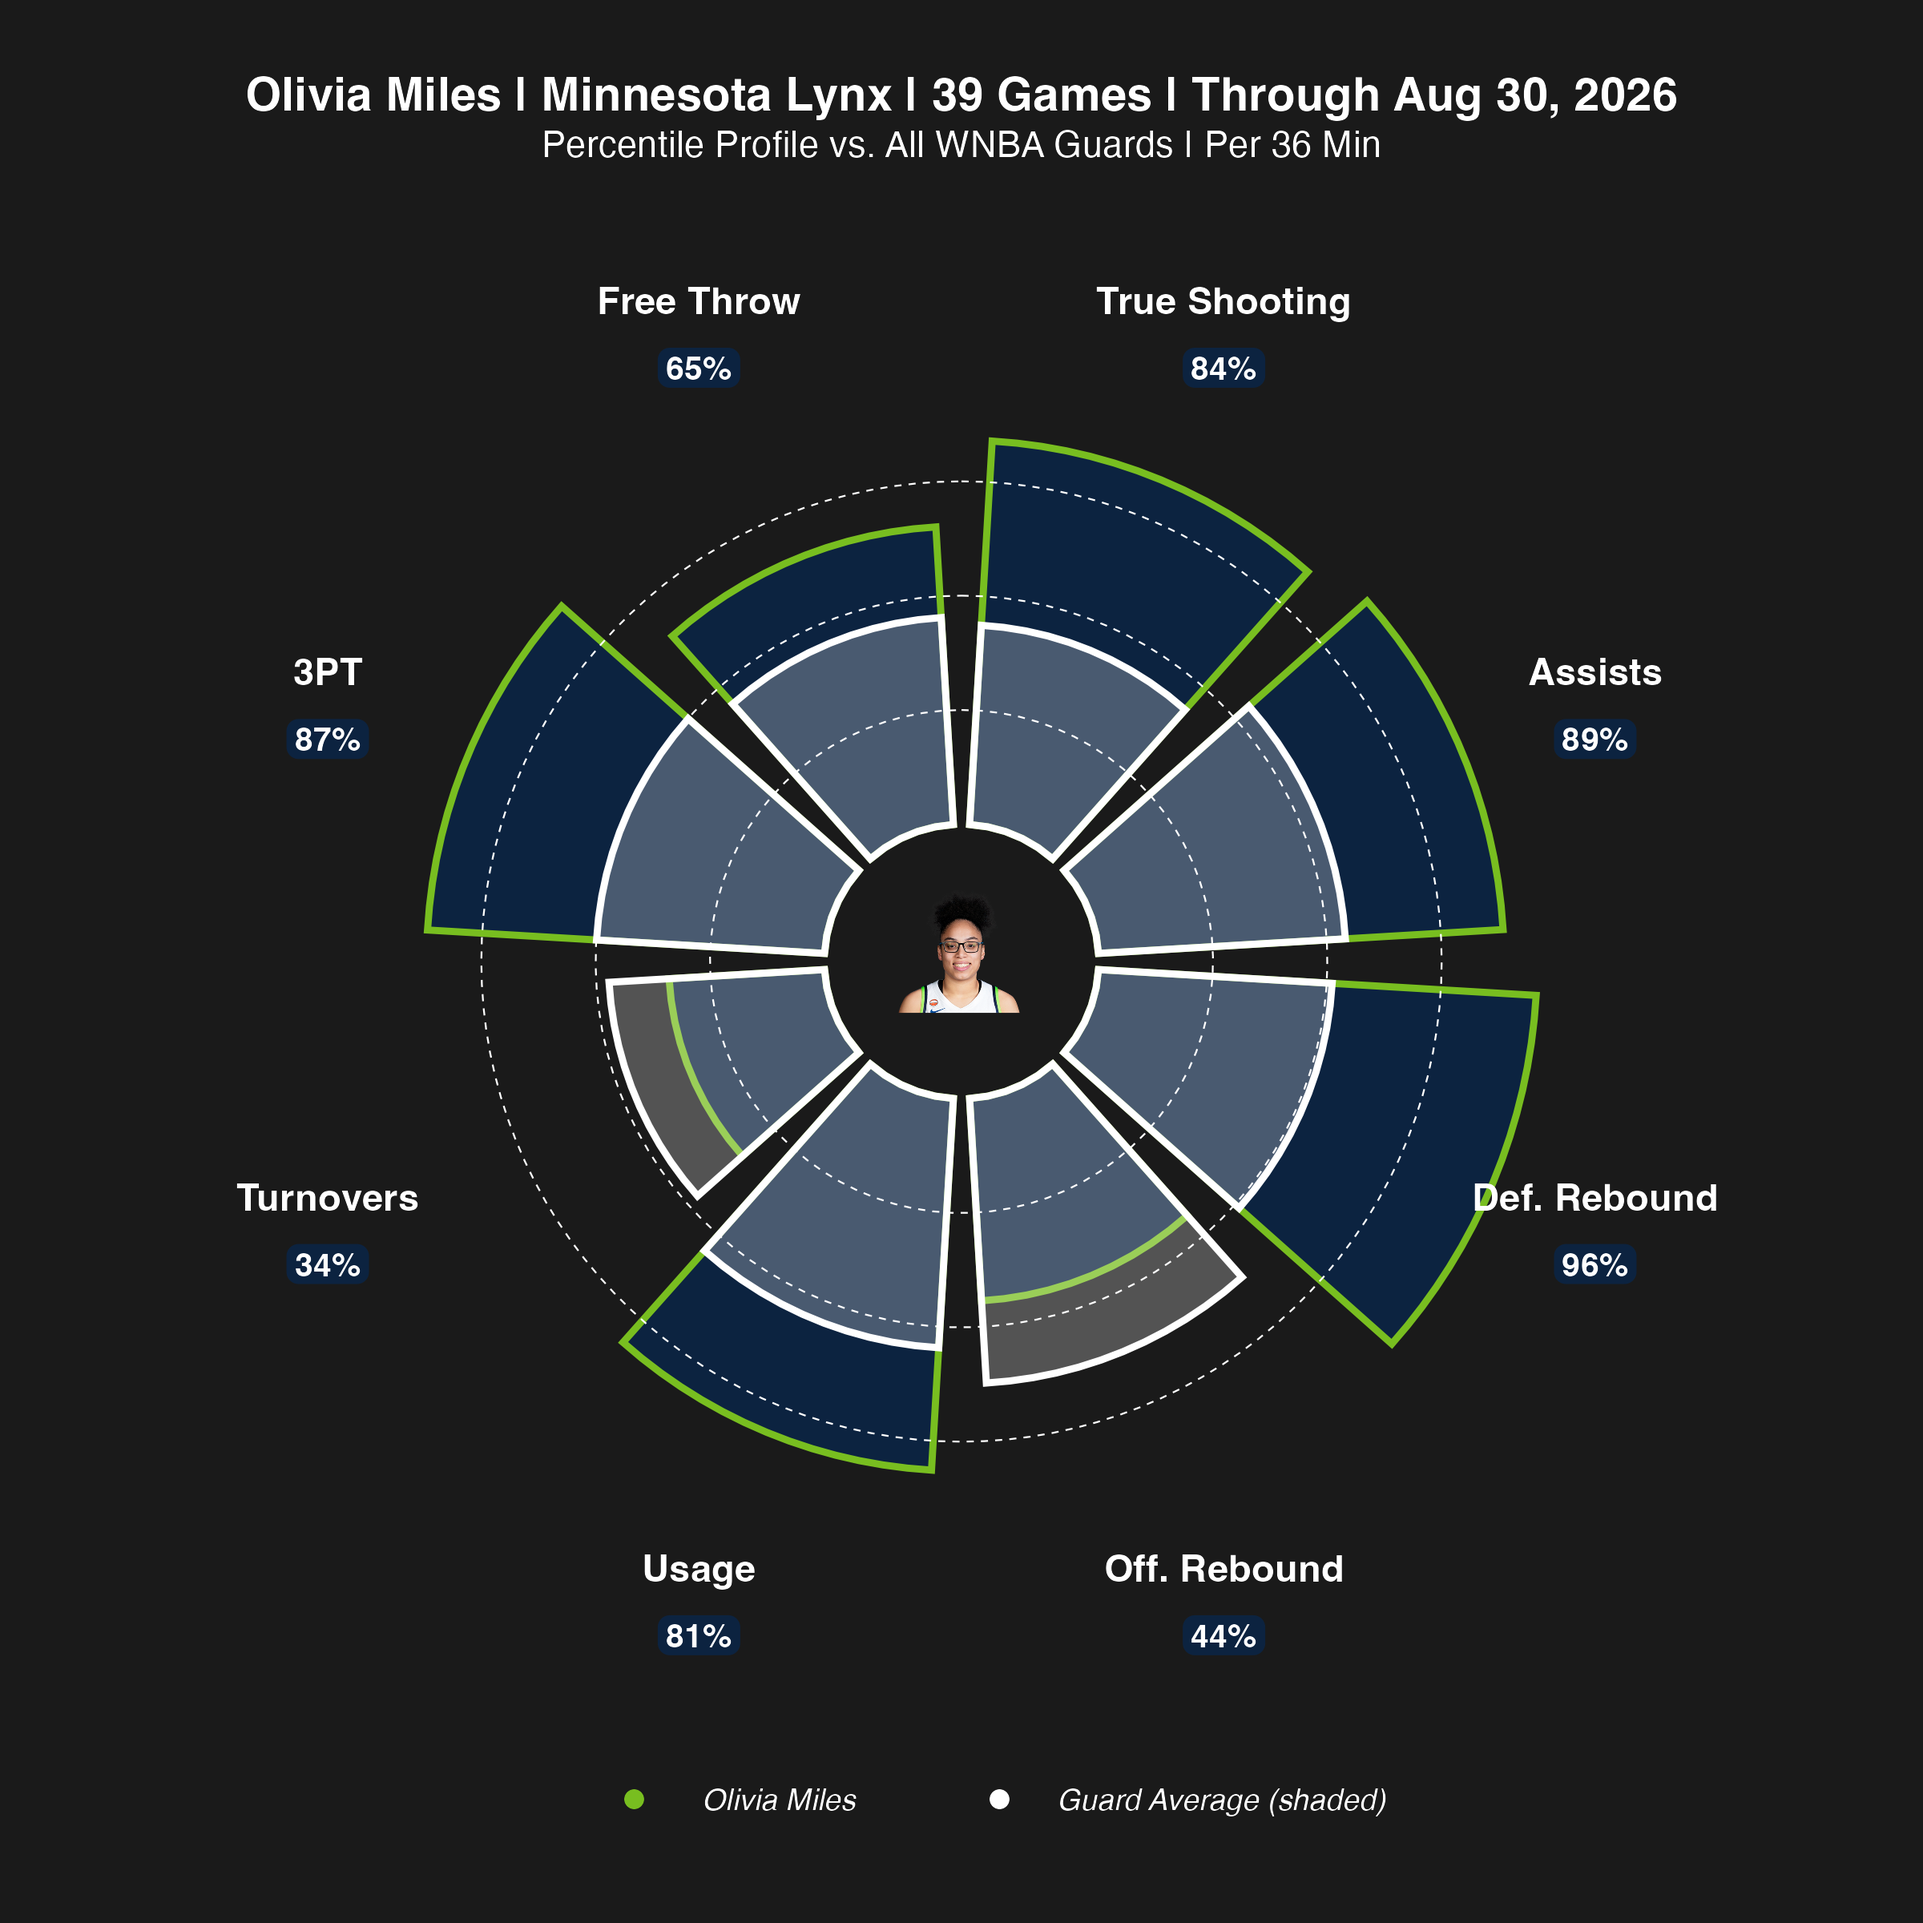
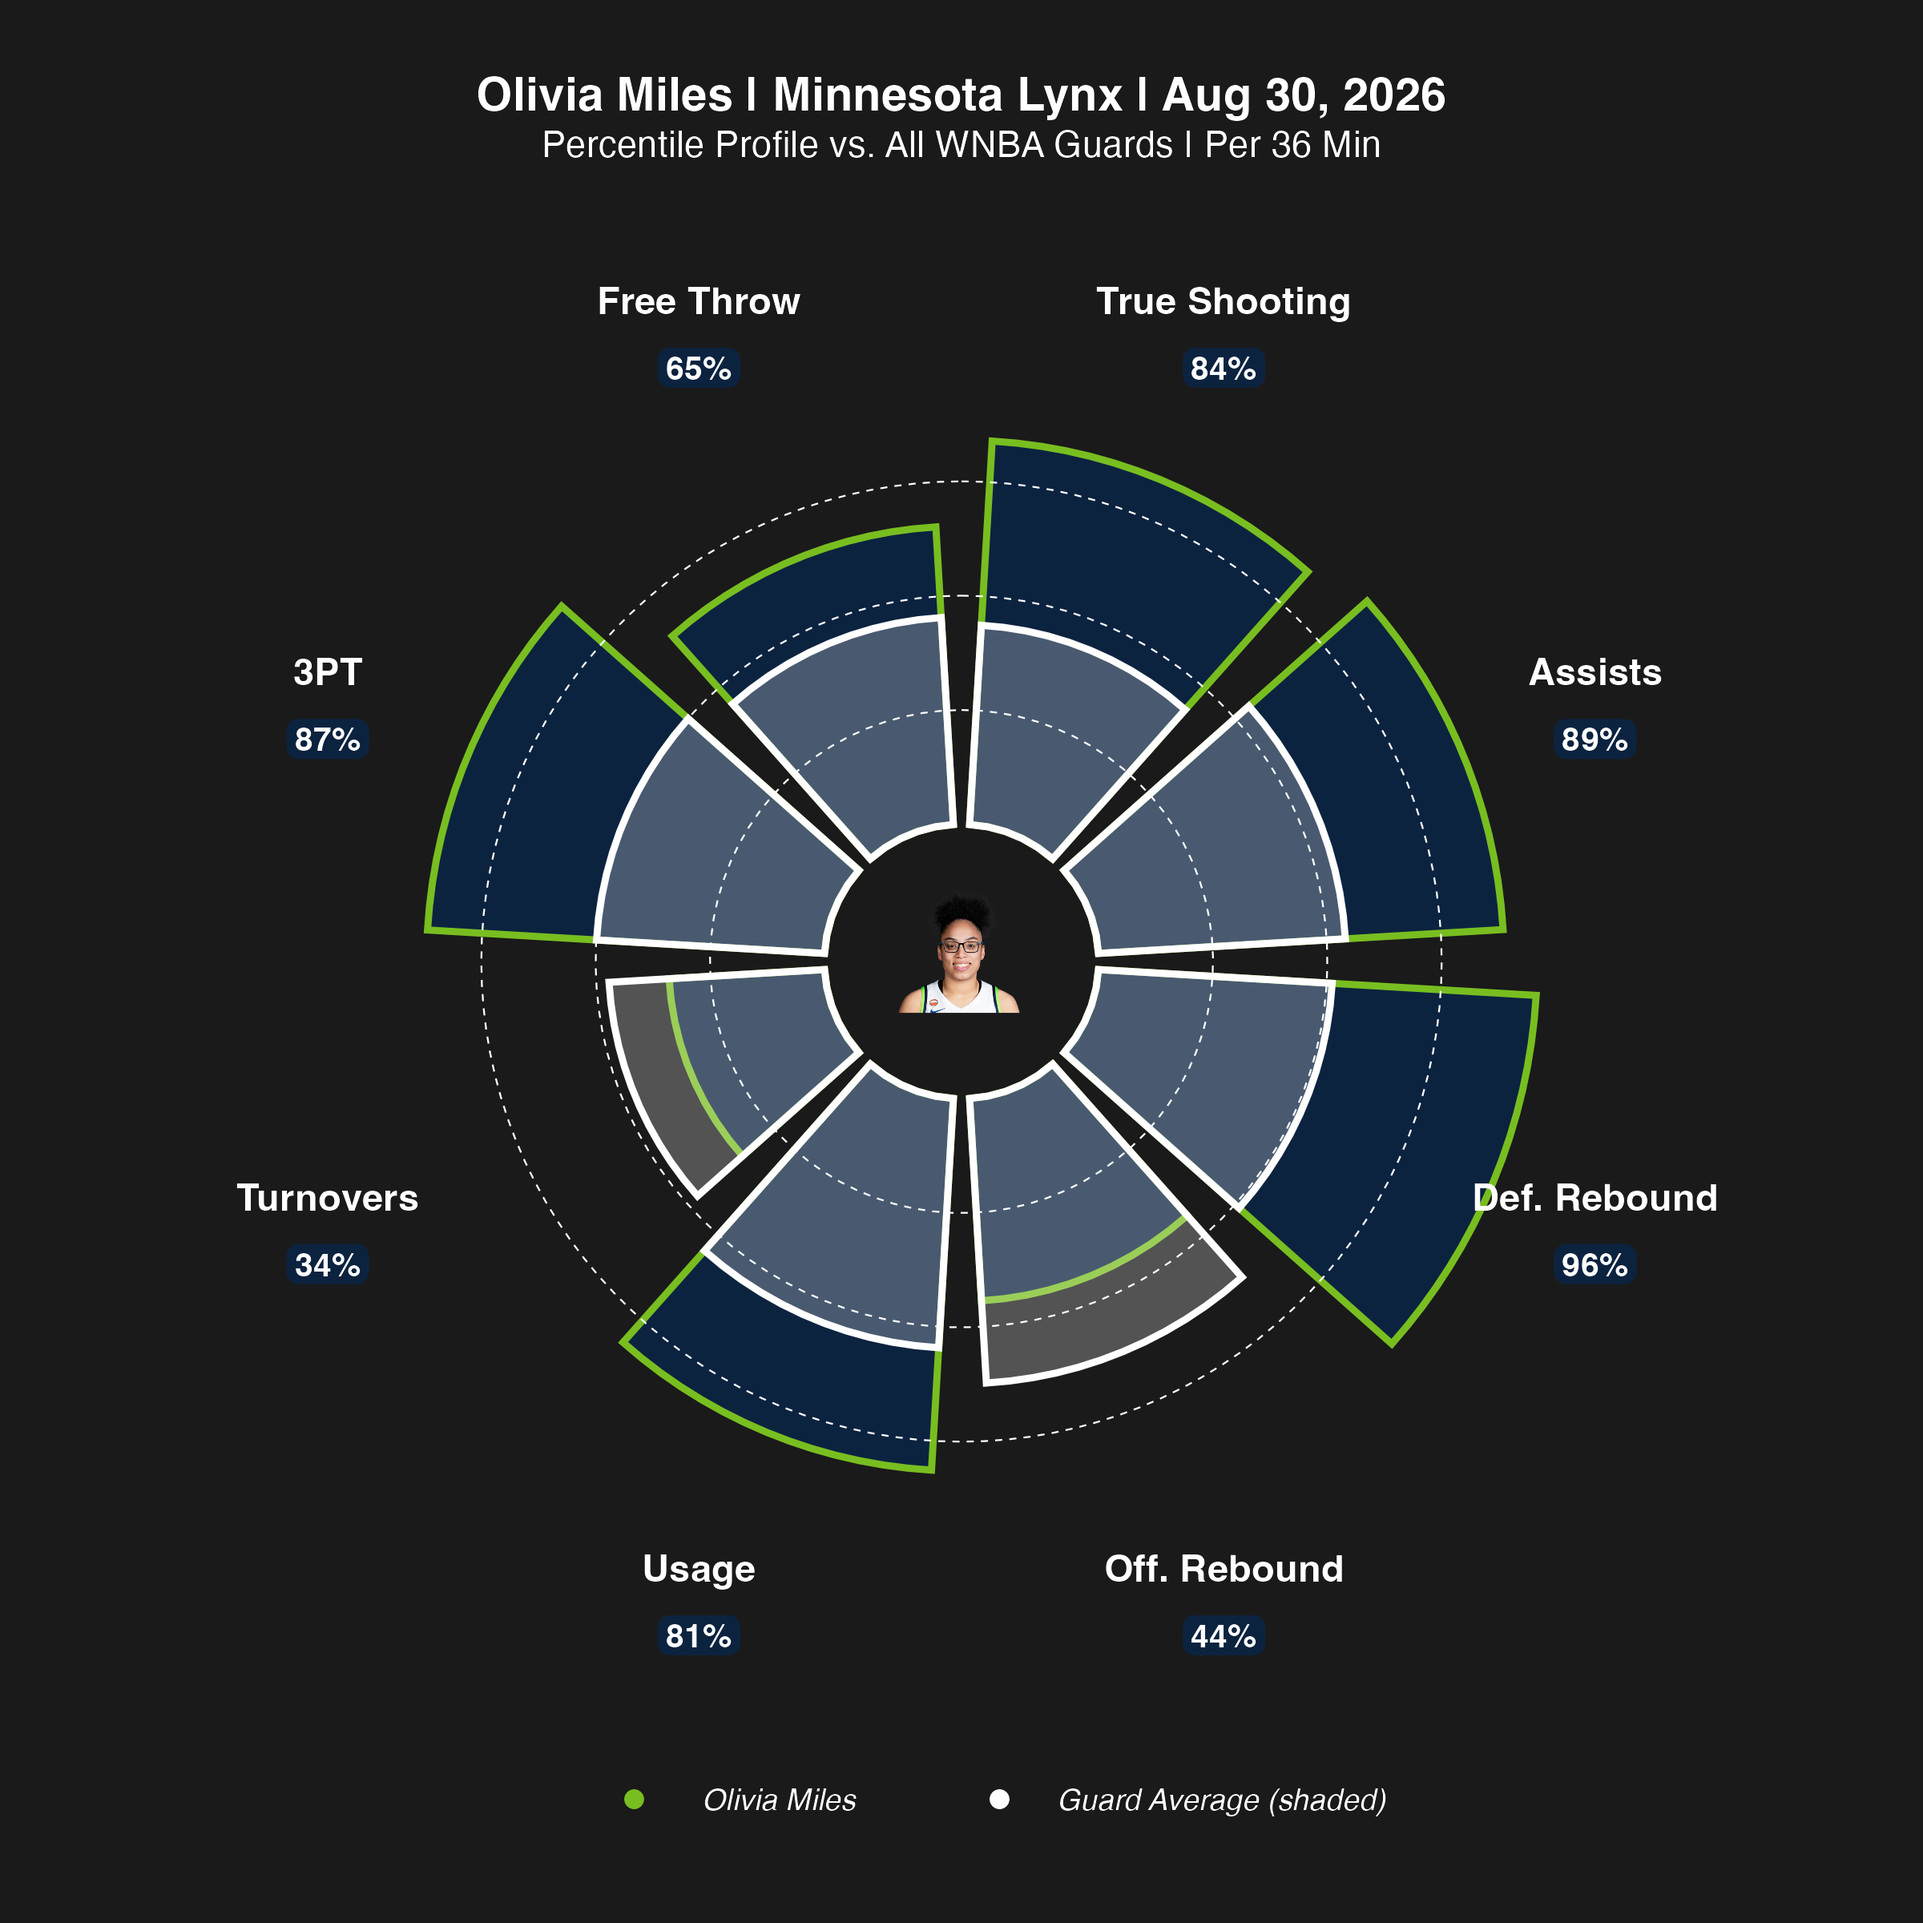
Shorten the pizza plot title to just the date
"39 Games | Through Aug 30, 2026" ran long next to the player and team on a
single line. The default is now PERIOD_LABEL "date", which prints "Aug 30,
2026" on its own. The games count, "As of", the combined form and the season
label are all still selectable.

Example chart regenerated.

Changed region(s): [[0.125, 0.0312, 0.875, 0.0625]]

diff --git a/04_wnba/player_pizza_plot/README.md b/04_wnba/player_pizza_plot/README.md
@@ -14,7 +14,7 @@ Near the top of `scripts/r/01_wnba_pizza_plot.R`:
 main_player  <- "Olivia Miles"
 player_team  <- "Minnesota Lynx"
 
-PERIOD_LABEL <- "both"    # what the title says about scope
+PERIOD_LABEL <- "date"    # what the title says about scope
 PERIOD_TEXT  <- NULL      # or override it with a string of your own
 ```
 
@@ -29,10 +29,14 @@ can't go stale as the season runs on:
 
 | Value | Title reads |
 |---|---|
+| `"date"` (default) | `Aug 30, 2026` |
 | `"games"` | `39 Games` |
 | `"asof"` | `As of Aug 30, 2026` |
-| `"both"` (default) | `39 Games \| Through Aug 30, 2026` |
+| `"both"` | `39 Games \| Through Aug 30, 2026` |
 | `"season"` | `2026 Season` |
+
+`"date"` is the default because the title sits on one line with the player and
+team; the longer forms crowd it.
 
 Set `PERIOD_TEXT` to any string to override it — use that if you deliberately
 want a fixed window, e.g. `PERIOD_TEXT <- "First 10 Games"`.
